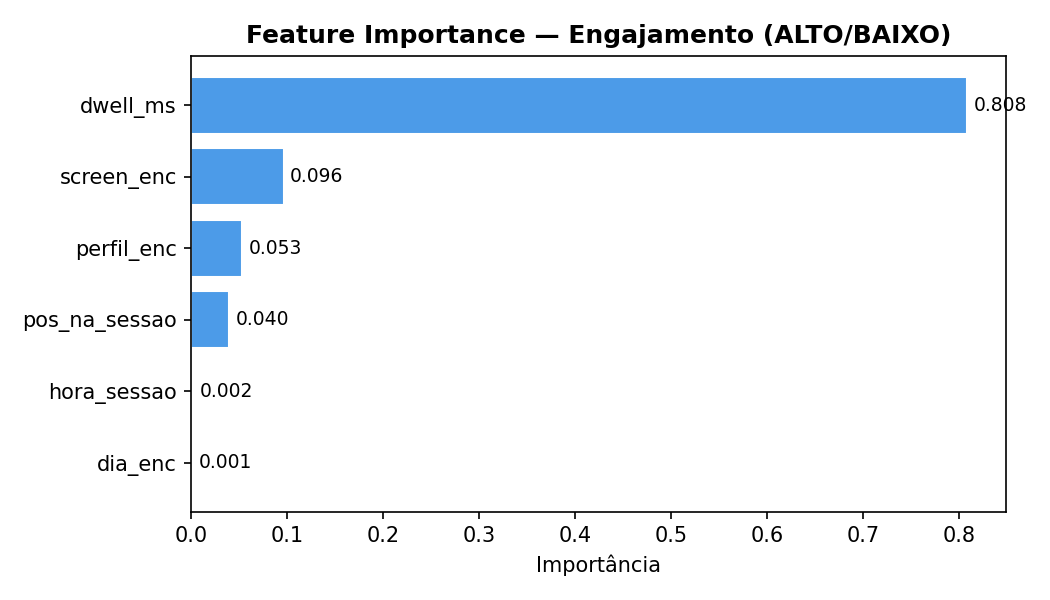
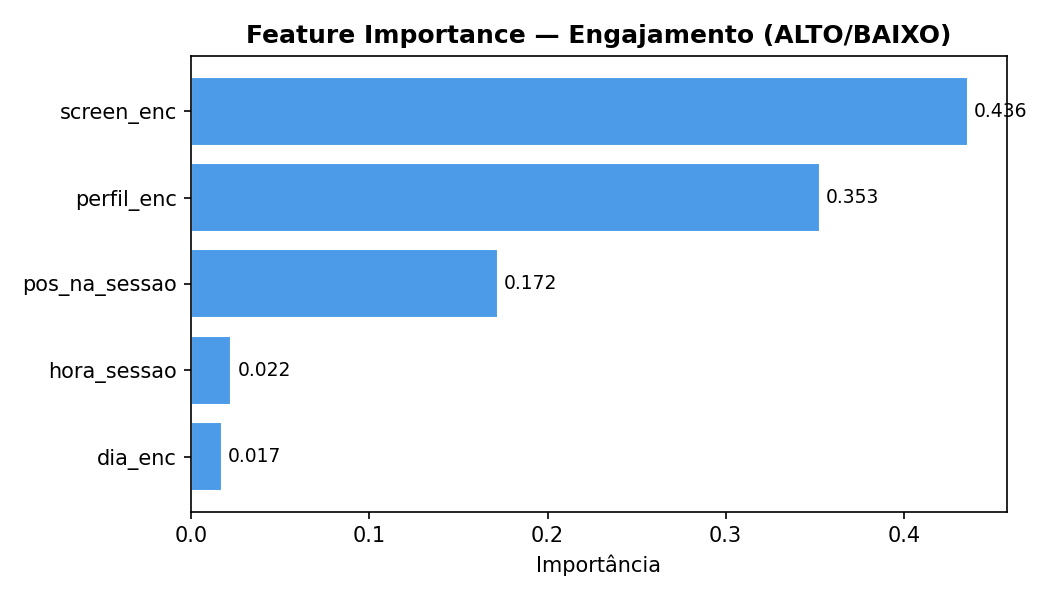
fix: remove data leakage no modelo de engajamento - acuracia agora 83.5%

diff --git a/modelo_ml.py b/modelo_ml.py
@@ -82,9 +82,11 @@ def load_and_engineer(path: Path) -> pd.DataFrame:
 def treinar_engajamento(df: pd.DataFrame) -> dict:
     """
     Treina Random Forest para classificar ALTO (1) vs BAIXO (0) engajamento.
-    Features: dwell_ms, hora_sessao, screen_enc, pos_na_sessao, dia_enc
+    Features: hora_sessao, screen_enc, pos_na_sessao, dia_enc, perfil_enc
+    NOTA: dwell_ms excluído intencionalmente — é a base do target (leakage).
+    O modelo aprende a prever engajamento pelo CONTEXTO da visita.
     """
-    features = ["dwell_ms", "hora_sessao", "screen_enc", "pos_na_sessao", "dia_enc", "perfil_enc"]
+    features = ["hora_sessao", "screen_enc", "pos_na_sessao", "dia_enc", "perfil_enc"]
     X = df[features]
     y = df["engajamento"]
 

diff --git a/src/modelo_ml.py b/src/modelo_ml.py
@@ -82,9 +82,11 @@ def load_and_engineer(path: Path) -> pd.DataFrame:
 def treinar_engajamento(df: pd.DataFrame) -> dict:
     """
     Treina Random Forest para classificar ALTO (1) vs BAIXO (0) engajamento.
-    Features: dwell_ms, hora_sessao, screen_enc, pos_na_sessao, dia_enc
+    Features: hora_sessao, screen_enc, pos_na_sessao, dia_enc, perfil_enc
+    NOTA: dwell_ms excluído intencionalmente — é a base do target (leakage).
+    O modelo aprende a prever engajamento pelo CONTEXTO da visita.
     """
-    features = ["dwell_ms", "hora_sessao", "screen_enc", "pos_na_sessao", "dia_enc", "perfil_enc"]
+    features = ["hora_sessao", "screen_enc", "pos_na_sessao", "dia_enc", "perfil_enc"]
     X = df[features]
     y = df["engajamento"]
 
